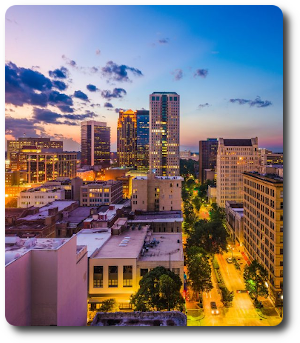
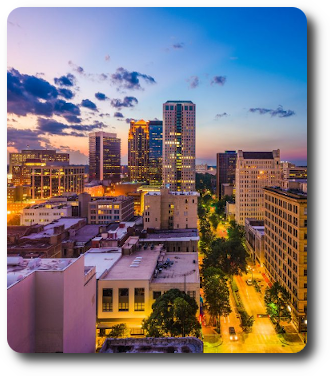
Updated all the city images

diff --git a/static/images/README.md b/static/images/README.md
@@ -1,0 +1,5 @@
+# City Images
+
+- Scale to 300x346
+- Filter -> Round Corners: Radius 15, Shadow X/Y: 8, Blue Radius: 15
+- Delete white background.
